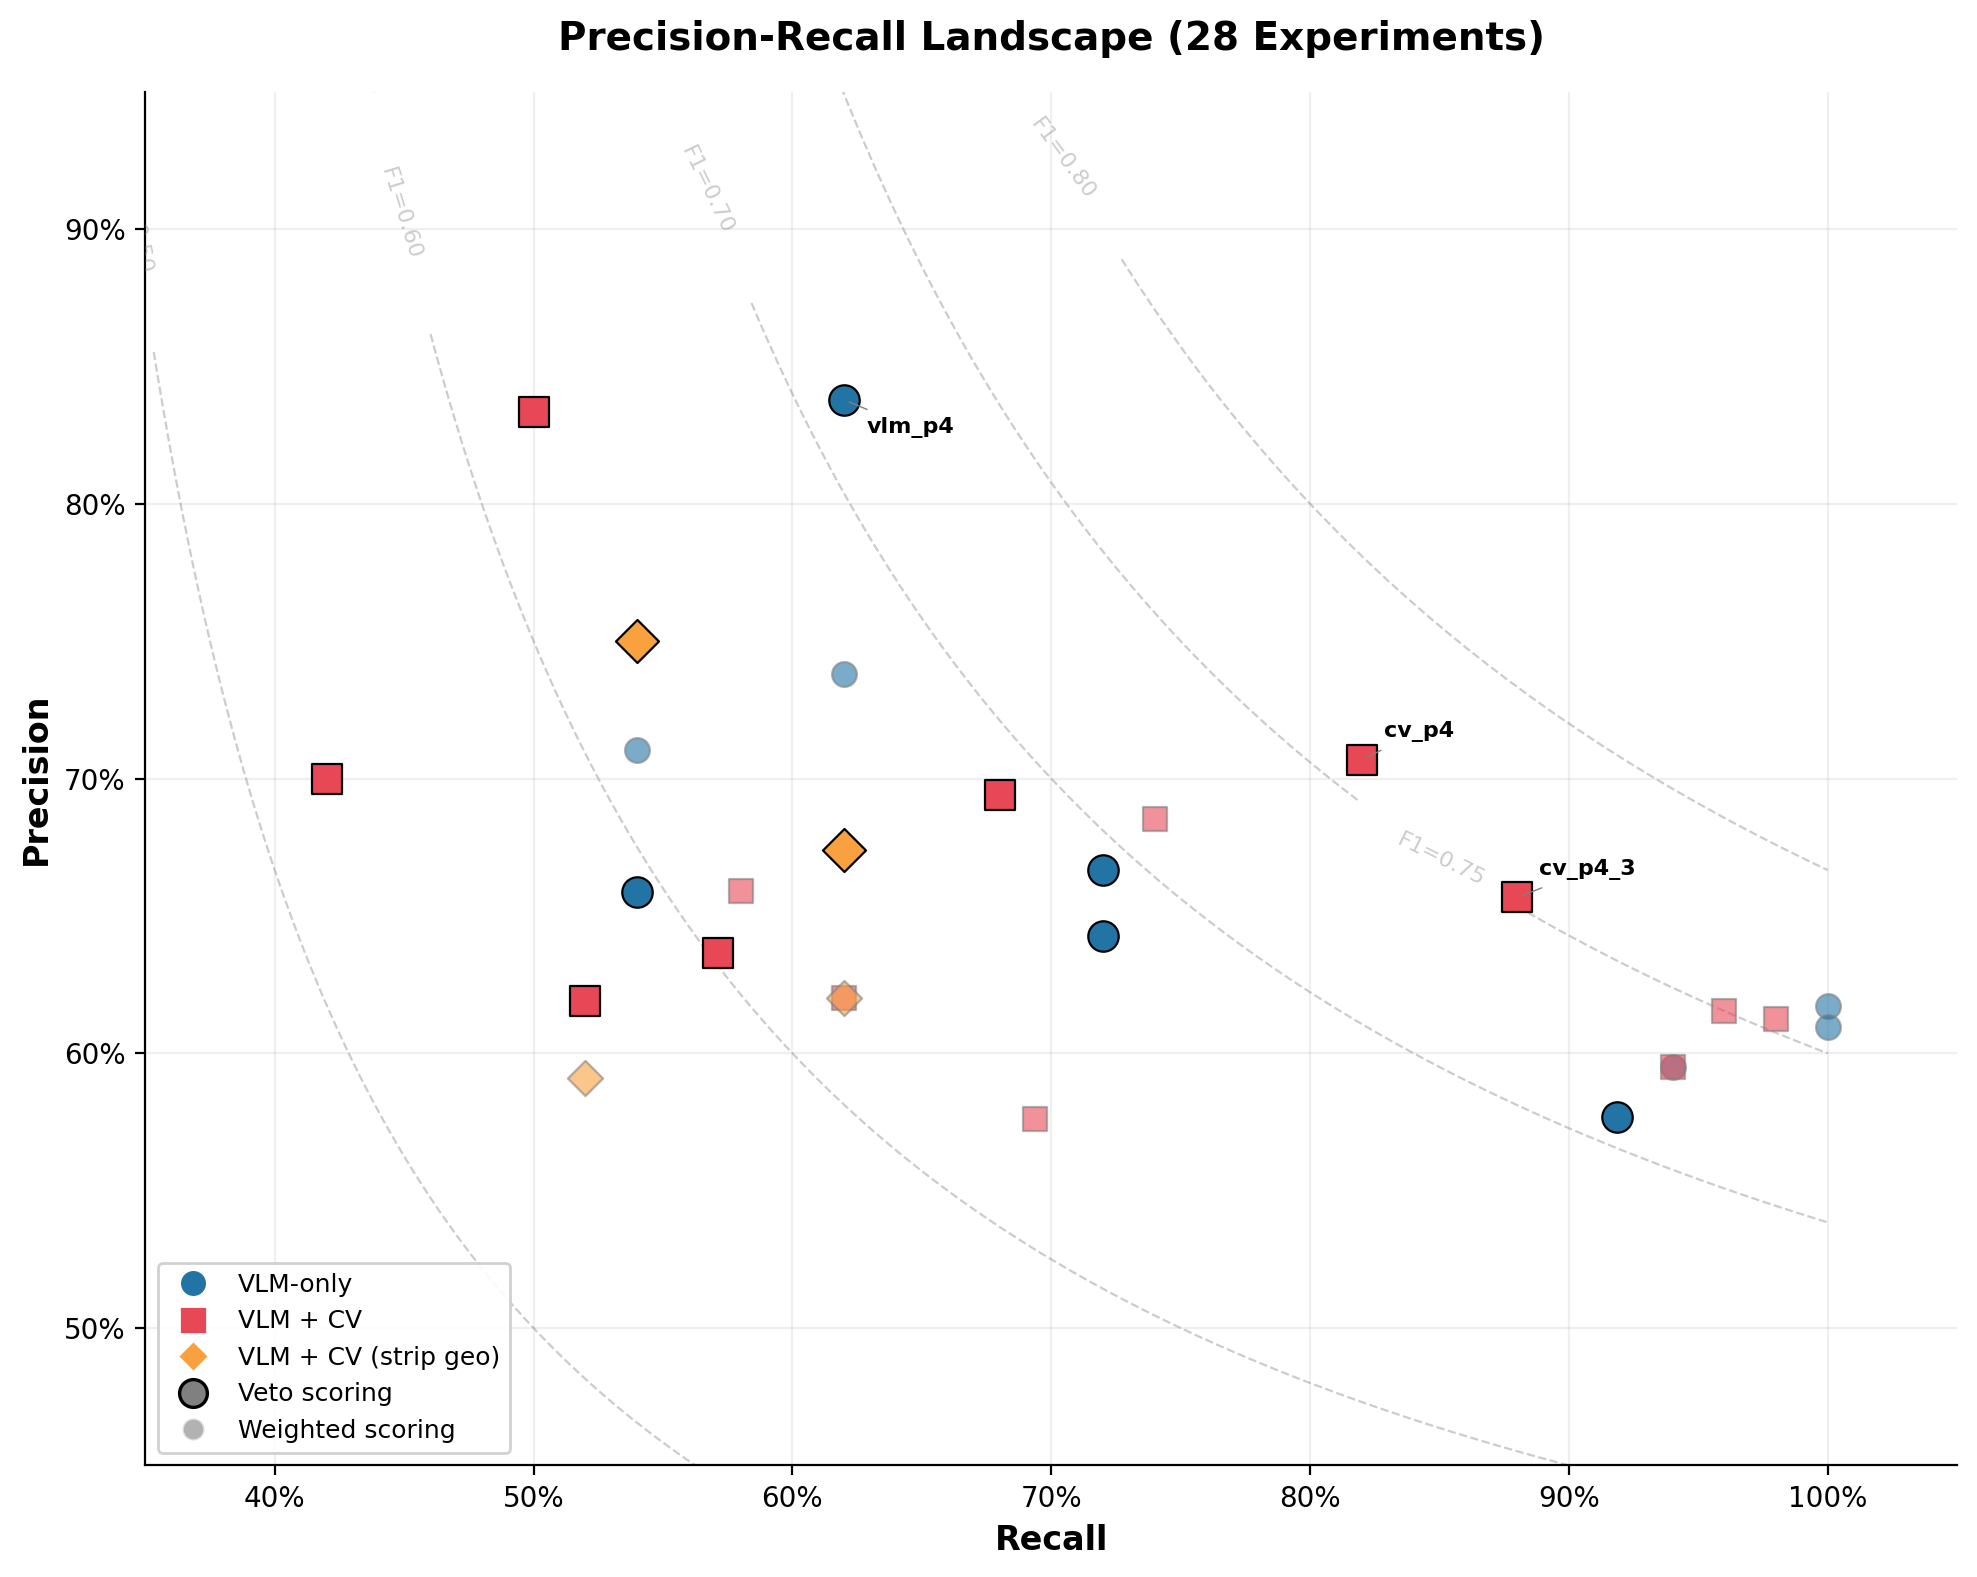
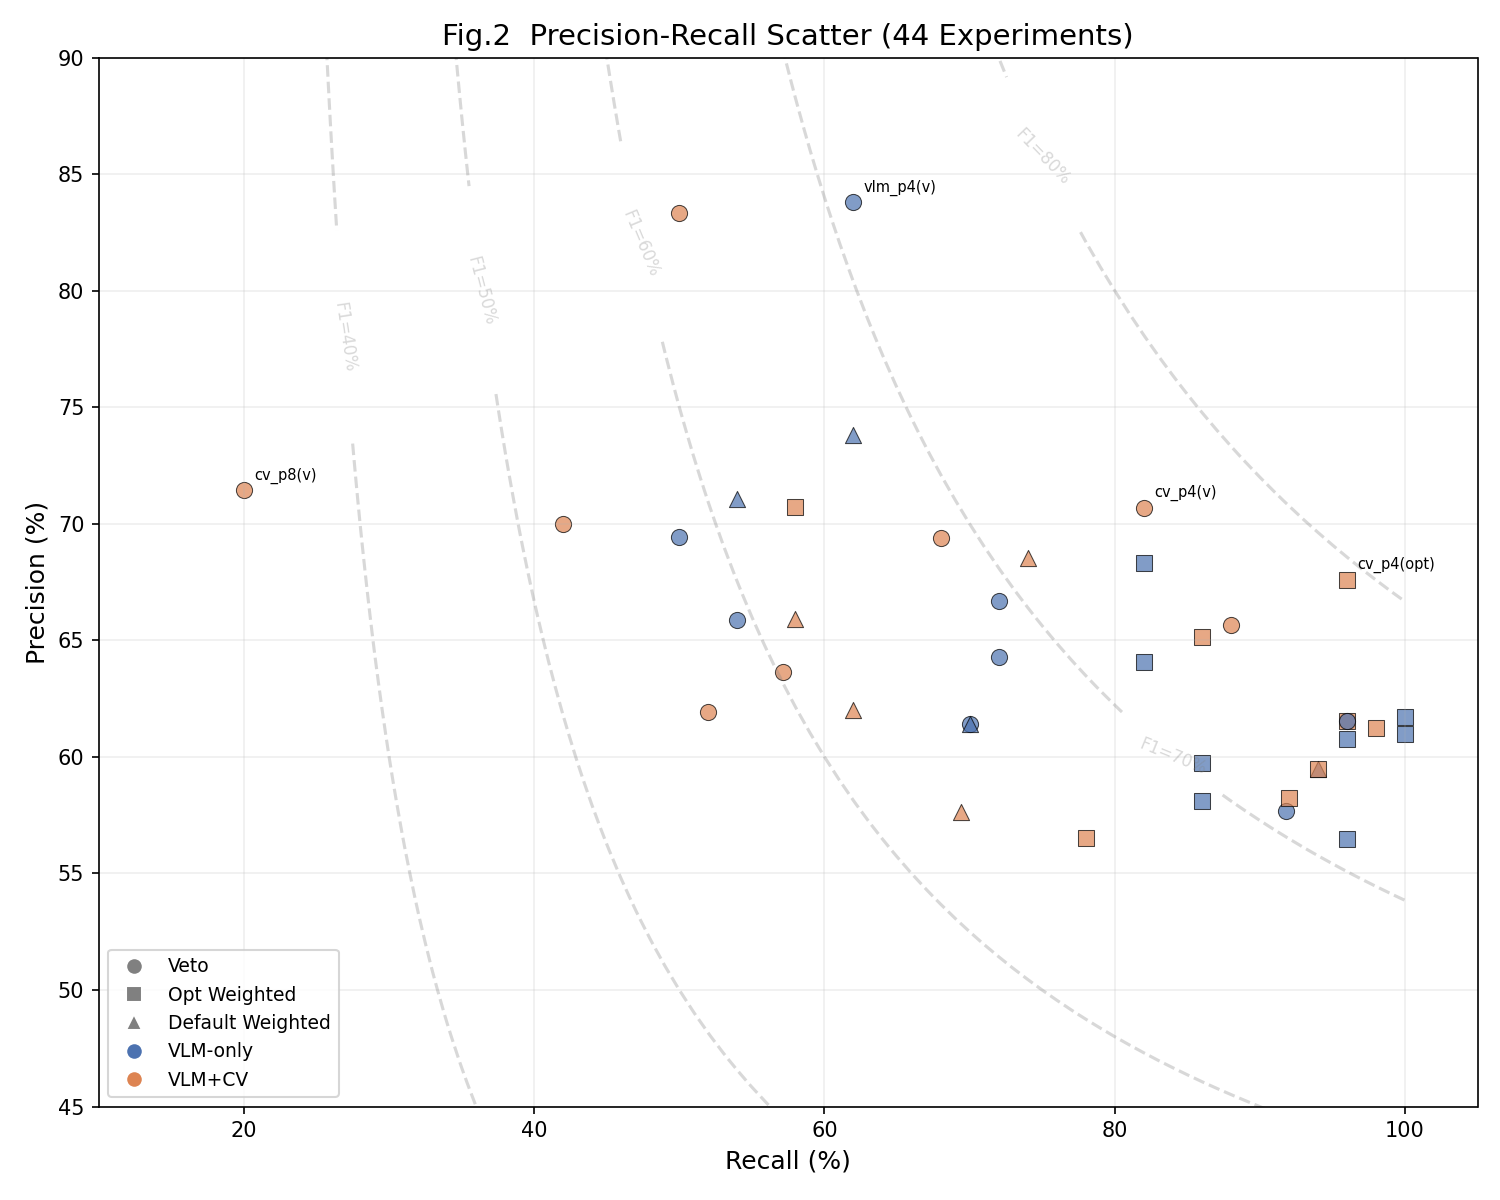
docs(experiment): update report with complete 44-experiment matrix
- Append 4 missing p8 results to all_results.csv (now 44 records)
- Rewrite EXPERIMENT_REPORT.md with full data tables, 8 core findings
- Update fig1/2/3/4/7 charts to include p8 series data
- Add Appendix B: CV contribution detail table (veto + opt_weighted)
- Fix unused import in labelme2yolo_seg.py

diff --git a/scripts/tool/labelme2yolo_seg.py b/scripts/tool/labelme2yolo_seg.py
@@ -1,7 +1,6 @@
 """LabelMe 标注转 YOLO 实例分割格式，并按比例划分训练集和验证集。"""
 
 import json
-import os
 import random
 import shutil
 from pathlib import Path
@@ -134,7 +133,7 @@ names:
     with open(yaml_path, "w", encoding="utf-8") as f:
         f.write(yaml_content)
 
-    print(f"\nDone:")
+    print("\nDone:")
     print(f"  Output: {out_dir}")
     print(f"  Total labels: {total_labels}")
     print(f"  Empty label files: {empty_labels}")
